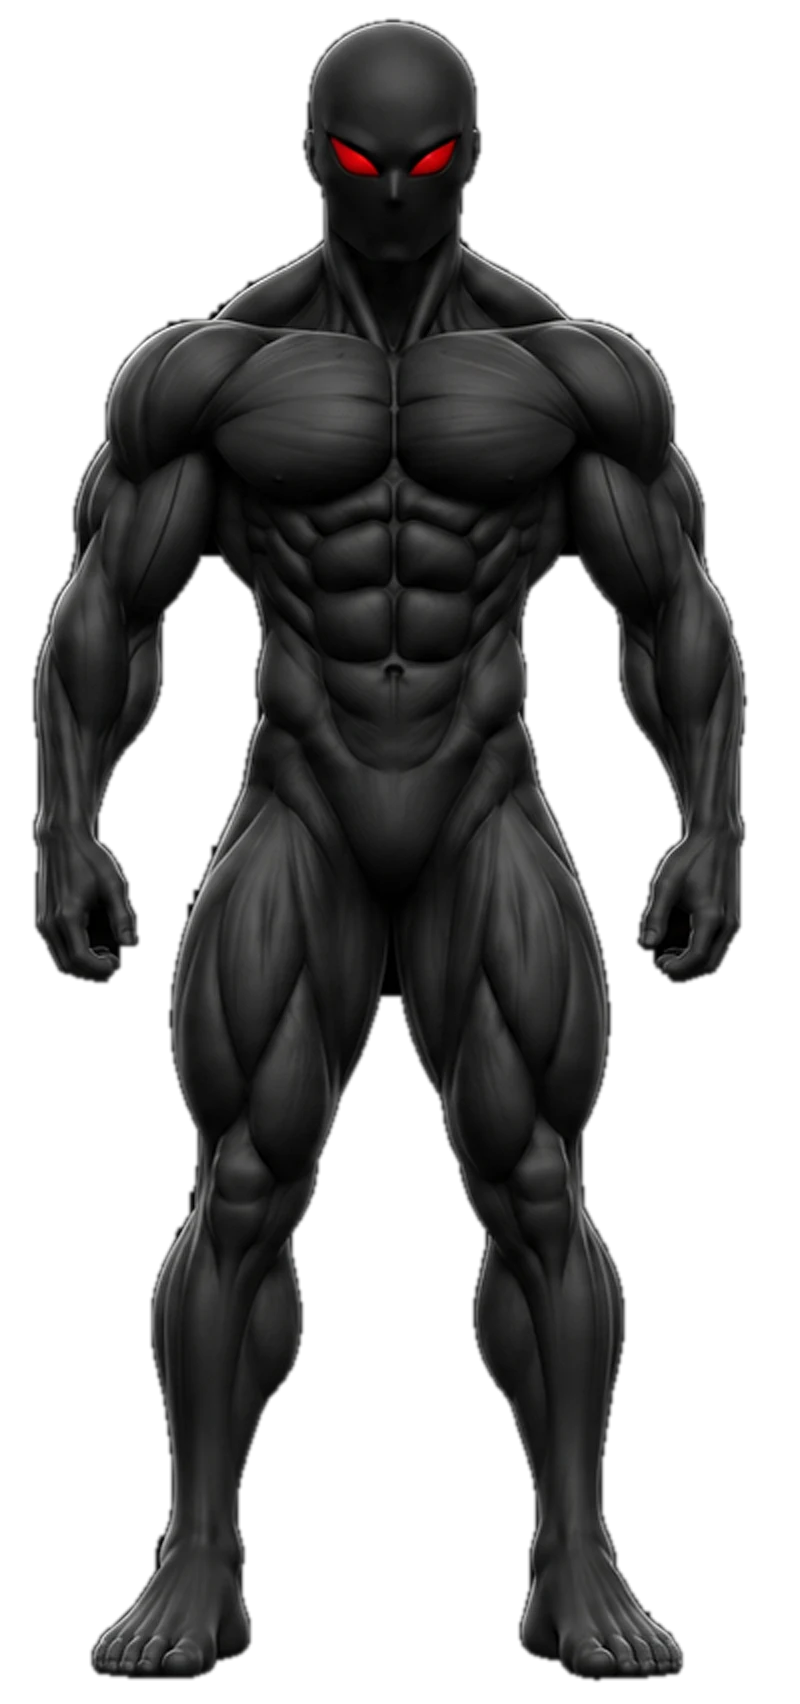
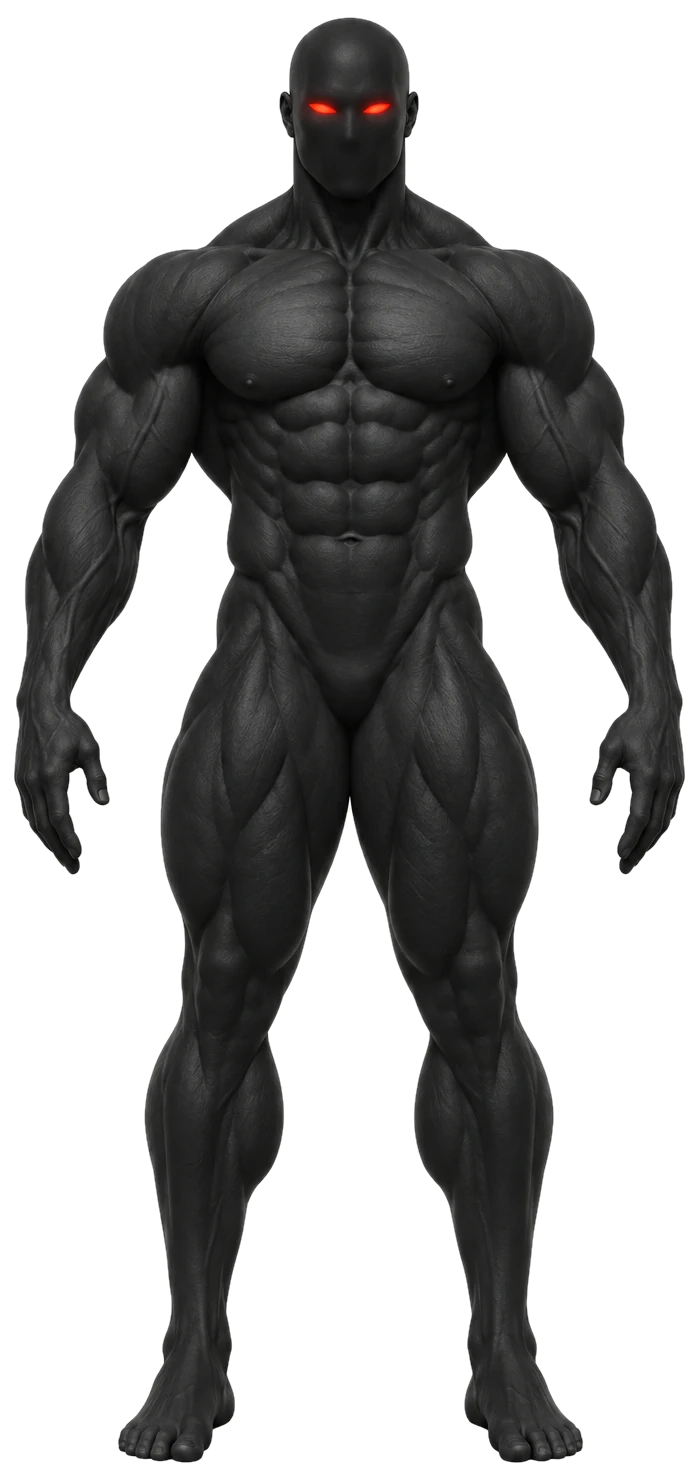
2.25.0: new Body Map models with aligned muscle areas
Claude-Session: https://claude.ai/code/session_013y13kYL9t9U9gpArUo5B3B

Changed region(s): [[0.0, 0.0, 0.9928, 0.9973], [0.3911, 0.5921, 0.4814, 0.6856]]

diff --git a/styles.css b/styles.css
@@ -962,7 +962,7 @@ body { position: fixed; inset: 0; width: 100%; }
 /* Body map */
 .bm-wrap { display: flex; flex-direction: column; gap: 10px; align-items: center; }
 .bm-turn { width: 100%; max-width: 360px; }
-.bm-stage { position: relative; width: 100%; max-width: 330px; aspect-ratio: 400 / 852; touch-action: pan-y; user-select: none; -webkit-user-select: none; transition: transform 0.16s ease, opacity 0.16s ease; }
+.bm-stage { position: relative; width: 100%; max-width: 330px; aspect-ratio: 698 / 1476; touch-action: pan-y; user-select: none; -webkit-user-select: none; transition: transform 0.16s ease, opacity 0.16s ease; }
 .bm-stage.is-turning { transform: scaleX(0.04); opacity: 0.3; }
 .bm-base, .bm-hl { position: absolute; inset: 0; width: 100%; height: 100%; pointer-events: none; }
 .bm-hl { pointer-events: auto; cursor: pointer; filter: blur(0.6px); }

diff --git a/sw.js b/sw.js
@@ -1,5 +1,5 @@
 // Offline app shell. Cache-first for the app's own files; never touches the network for anything else.
-const CACHE = 'gymlog-v2.24.1';
+const CACHE = 'gymlog-v2.25.0';
 const FILES = [
   './', 'index.html', 'styles.css', 'manifest.webmanifest',
   'app.js', 'art.js', 'icons.js', 'muscles.js', 'icon-match.js', 'catalog.js', 'icons-v2.js', 'live.js', 'sound.js', 'calc.js', 'charts.js', 'backup.js', 'notes.js', 'crypto.js', 'db.js', 'nav.js', 'picker.js', 'store.js',

diff --git a/version.js b/version.js
@@ -1,1 +1,1 @@
-export const VERSION = '2.24.1';
+export const VERSION = '2.25.0';

diff --git a/README.md b/README.md
@@ -238,3 +238,6 @@ node tests/e2e.mjs          # drives the real app in headless Chrome at phone si
 
 ## 2.24.1
 - Lock screen: the dumbbell now matches the app logo exactly and sits on its own, no purple box. Dark in light mode, white in dark mode.
+
+## 2.25.0
+- Body Map: new anatomical models (front and back, black for light mode, white for dark mode) with muscle areas stretched to fit each model exactly, so the colour sits on the muscles with a clean edge and no grainy outline.
